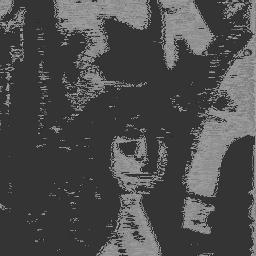
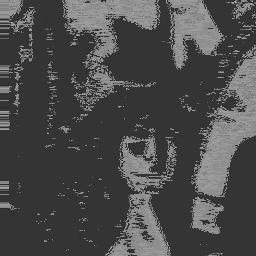
LPF 수정

diff --git a/Assignment/Areum/DSP/DSP_project.m b/Assignment/Areum/DSP/DSP_project.m
@@ -2,13 +2,18 @@
 y = uint8(zeros(size(x)));
 
 [Rows,Cols] = size(x);
-M = 2;
+M = 4;
 
 for i = 1:Rows
-    z = [x(i,:), zeros(1,M-1)];
     for j = 1:Cols
-        for k = 1:M
-            y(i,j) = y(i,j) + z(1,j+k-1);
+        if (j <= M-1)
+            for k = 1:M-1
+                y(i,j) = y(i,j)+x(i,k);
+            end
+        else
+            for k = 0:M-1
+                y(i,j) = y(i,j)+x(i,j-k);
+            end
         end
         y(i,j) = y(i,j)/M;
     end
